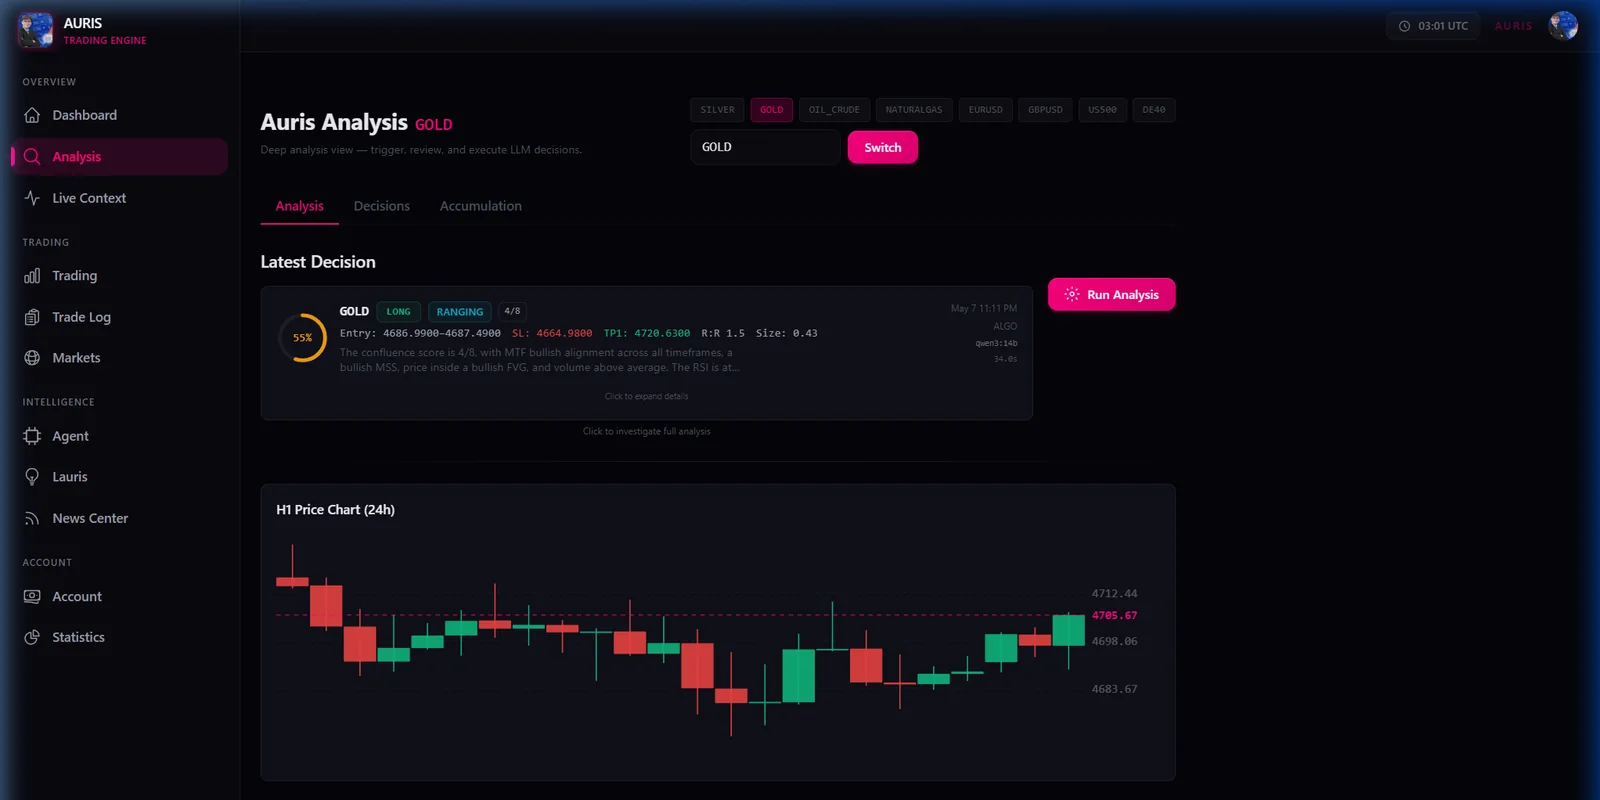
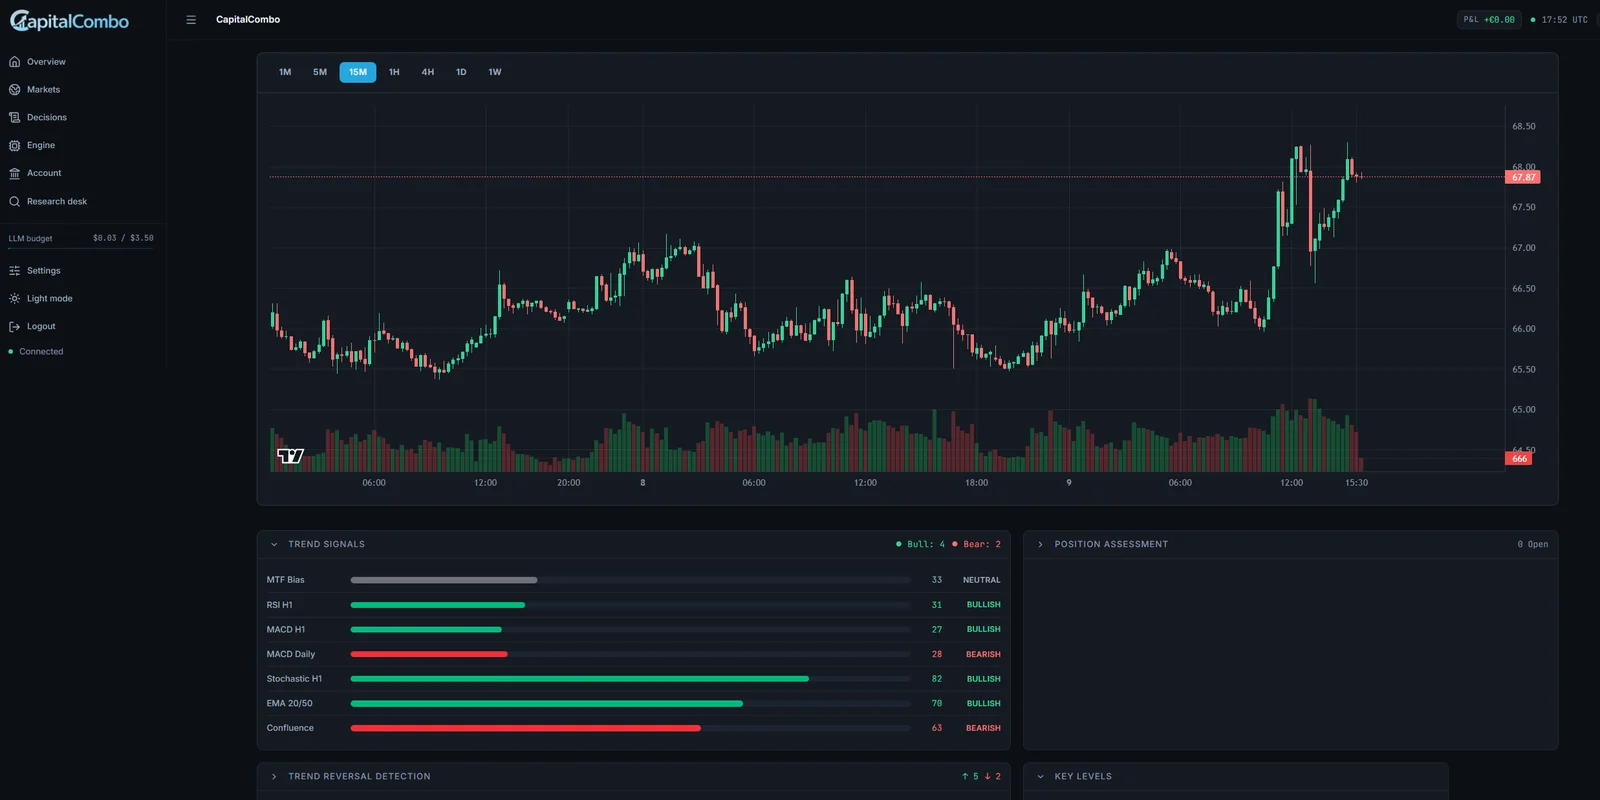
Refresh the CapitalCombo screenshot and retheme the slide
- Replaces the old Auris-branded analysis view with the current
  CapitalCombo chart view, normalised to the 2:1 frame the slider uses
  (browser chrome strip off the top, 80px off the right margin).
- Alt text and the window URL label follow the new view.
- The slide's magenta came from the Auris surface and no longer appeared
  anywhere in the screenshot, so the theme moves to the light blue of the
  app's own side menu. Dropping --theme-on-primary is deliberate: the old
  magenta was dark and needed white text, the light blue needs the dark
  default from :root, otherwise the badge and the primary button render
  white on light blue.

diff --git a/index.html b/index.html
@@ -341,10 +341,10 @@
                                         <span class="dot"></span>
                                         <span class="dot"></span>
                                         <span class="dot"></span>
-                                        <span class="browser-url">auris.local/analysis</span>
+                                        <span class="browser-url">capitalcombo.local/markets</span>
                                     </div>
                                     <div class="showcase-image-wrap">
-                                        <img src="assets/img/projects/capitalcombo.webp" alt="CapitalCombo: Analyse-Ansicht mit Entscheidungs-Log und Kursverlauf" loading="lazy" decoding="async" width="1600" height="800">
+                                        <img src="assets/img/projects/capitalcombo.webp" alt="CapitalCombo: Kursverlauf mit Trend-Signalen und Positionsbewertung" loading="lazy" decoding="async" width="1600" height="800">
                                     </div>
                                 </div>
                             </div>

diff --git a/assets/css/main.css b/assets/css/main.css
@@ -161,15 +161,14 @@
     --theme-gradient-end: #2f5ad6;
 }
 
-/* CapitalCombo: Magenta der Analyse-Oberflaeche, hoher Signalwert */
+/* CapitalCombo: das Hellblau des Seitenmenues, kuehl und sachlich */
 [data-project-theme="capitalcombo"] {
-    --theme-primary: 229, 0, 114;
-    --theme-secondary: 178, 0, 89;
-    --theme-accent: 255, 92, 168;
-    --theme-gradient-start: #ff5ca8;
-    --theme-gradient-mid: #e50072;
-    --theme-gradient-end: #b20059;
-    --theme-on-primary: #ffffff;
+    --theme-primary: 152, 201, 223;
+    --theme-secondary: 95, 159, 194;
+    --theme-accent: 184, 220, 238;
+    --theme-gradient-start: #b8dcee;
+    --theme-gradient-mid: #98c9df;
+    --theme-gradient-end: #5f9fc2;
 }
 
 /* Deterministische Review: tiefes Werkzeug-Blau, sachlich */
